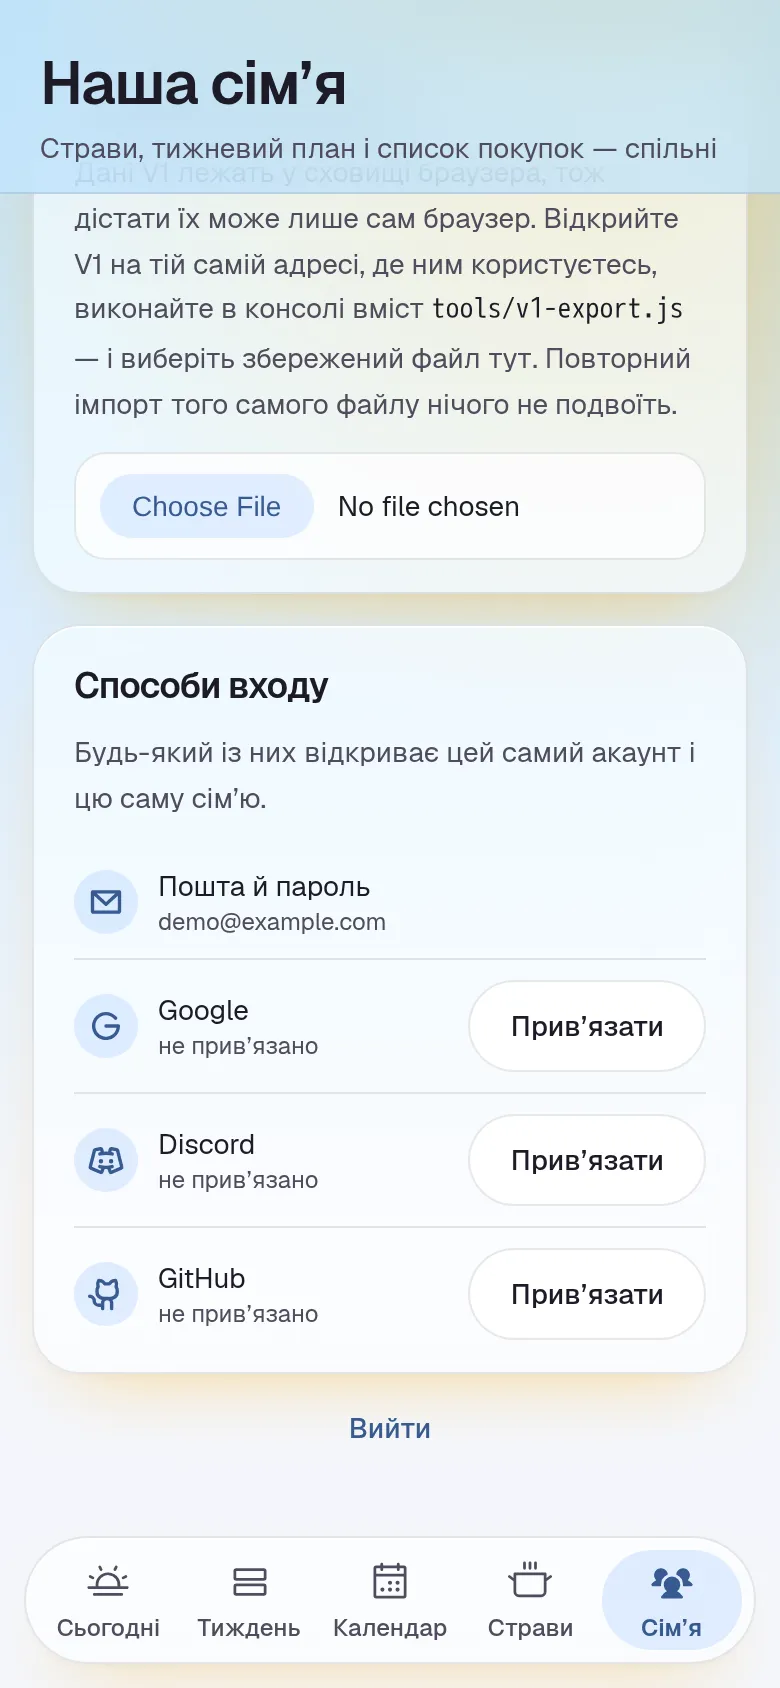
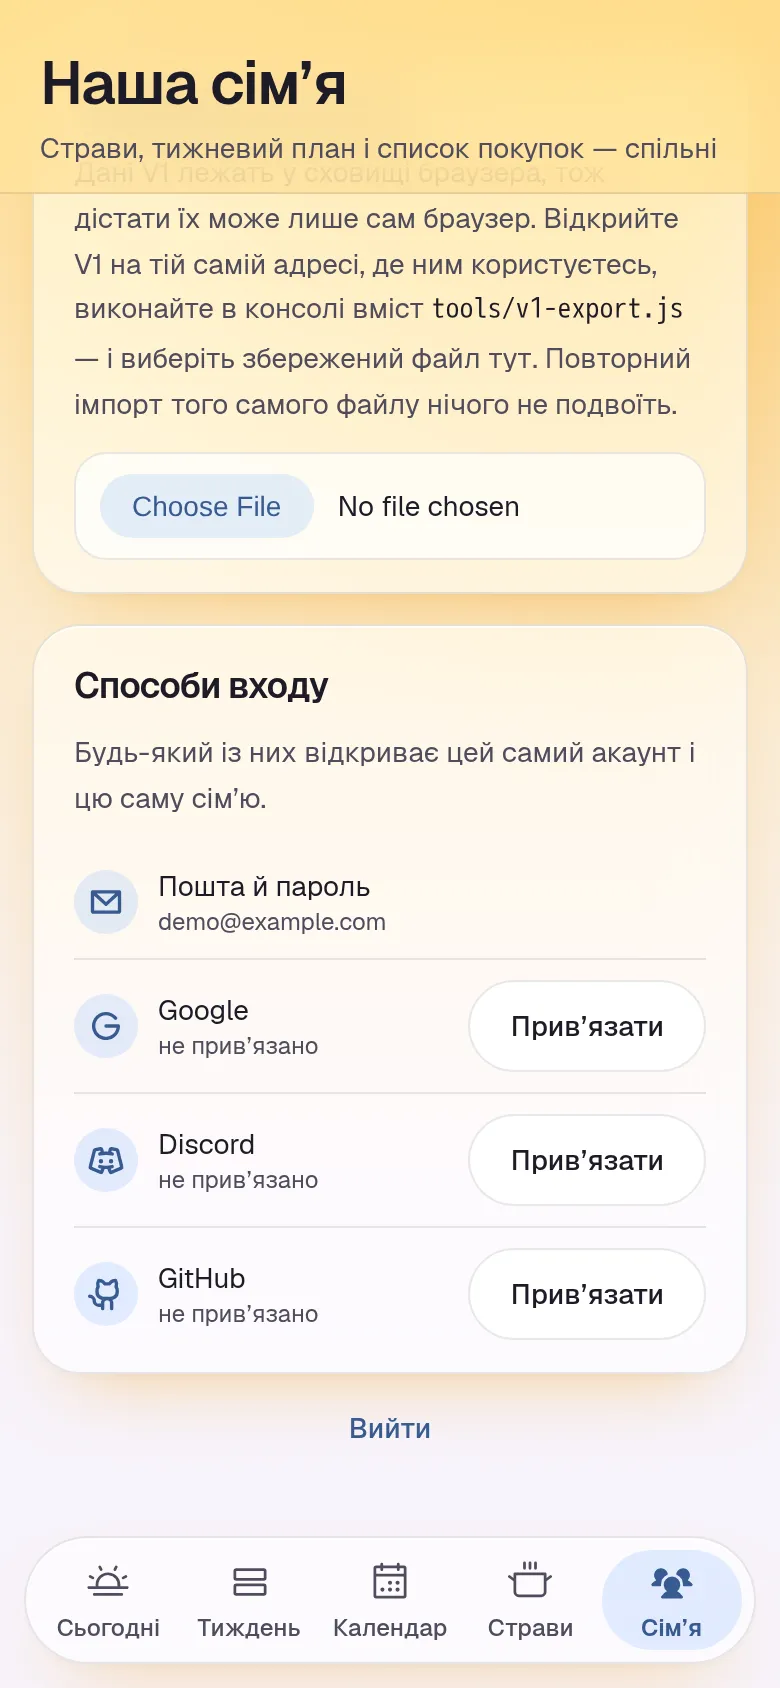
MER-176: рев'ю — відновлення з власним VOLS, накладка для WEB_IMAGE, ps -a, OAuth-ключі в .env, знімок входу в тій самій палітрі

diff --git a/README.md b/README.md
@@ -50,7 +50,7 @@
 
 ### Вимоги
 
-- Docker із плагіном Compose v2 (`docker compose`). Перевірено на Docker 27 і Compose 5.6.
+- Docker із плагіном Compose (`docker compose`, не старий `docker-compose`). Перевірено на Docker 27 і Compose 5.6.
 - Пам'ять: стек у роботі займає близько 0,5 ГБ RAM. Диск: кілька ГБ під образи (лише Postgres — 1,2 ГБ).
 - Вільні порти 80 і 443 або свої через `HTTP_PORT`/`HTTPS_PORT`.
 - HTTPS для будь-якої адреси, крім `localhost`: без захищеного контексту браузер не дасть застосунку відкрити локальну базу. Для доступу з інтернету — домен, що вказує на цей хост.
@@ -63,13 +63,13 @@ cd meridian
 docker compose up -d
 ```
 
-Перший запуск триває кілька хвилин: збирається образ застосунку. Секрети (пароль Postgres, `JWT_SECRET`, anon-ключ) стек генерує сам і тримає у власному томі, схему бази накочує сам. `docker compose ps`: `init` і `migrate` у стані `Exited (0)` — так і має бути.
+Перший запуск триває кілька хвилин: збирається образ застосунку. Секрети (пароль Postgres, `JWT_SECRET`, anon-ключ) стек генерує сам і тримає у власному томі, схему бази накочує сам. `docker compose ps -a`: `init` і `migrate` у стані `Exited (0)` — так і має бути.
 
 Далі відкрити <http://localhost>, зареєструватися, створити сім'ю й профіль, додати страви (вручну, з PDF або стартовим набором) і на екрані «Тиждень» натиснути «Згенерувати тиждень».
 
 ### Змінні оточення
 
-`.env` потрібен лише тоді, коли щось змінюєте: `cp .env.example .env`. Там кожна змінна пояснена. Після зміни — `docker compose up -d`. Секретів у `.env` немає.
+`.env` потрібен лише тоді, коли щось змінюєте: `cp .env.example .env`. Там кожна змінна пояснена. Після зміни — `docker compose up -d`. Секрети стека в `.env` не потрапляють; там будуть лише ключі OAuth, якщо ввімкнете вхід через провайдерів.
 
 | Змінна | Типово | Що робить |
 |--------|--------|-----------|
@@ -79,7 +79,7 @@ docker compose up -d
 | `GOTRUE_MAILER_AUTOCONFIRM` | `true` | Пошти в стеку немає, тож акаунт підтверджується одразу |
 | `GOTRUE_EXTERNAL_<ПРОВАЙДЕР>_*` | вимкнено | Вхід через Google, Discord, GitHub (нижче) |
 | `STARTER_SET_FILE` | порожньо | JSON стартового набору страв, поза репозиторієм |
-| `WEB_IMAGE` | порожньо | Готовий образ застосунку замість збірки |
+| `WEB_IMAGE` | порожньо | Готовий образ застосунку замість збірки, разом із накладкою `infra/compose.prebuilt.yaml` |
 
 Домашній сервер без домену (`https://<IP>:<порт>` і локальний центр сертифікації), стартовий набір і готовий образ описано в [`infra/README.md`](infra/README.md).
 
@@ -90,7 +90,7 @@ git pull
 docker compose up -d --build
 ```
 
-`--build` перезбирає образ застосунку з нових вихідників: без нього Compose лишить старий. Нові міграції бази `migrate` накотить сам. Перед оновленням зробіть бекап.
+`--build` перезбирає образ застосунку з нових вихідників: без нього Compose лишить старий. Нові міграції бази `migrate` накотить сам. З готовим образом замість `--build` спершу підтягніть новий: `docker compose -f compose.yaml -f infra/compose.prebuilt.yaml pull caddy`, далі `up -d` з тими самими `-f`. Перед оновленням зробіть бекап.
 
 ### Бекап і відновлення
 
@@ -106,12 +106,13 @@ docker compose up -d
 Відновлення — на чистому хості (клон репозиторію і той самий `.env`) або після `docker compose down -v`:
 
 ```sh
+VOLS="-v meridian_secrets:/v/secrets -v meridian_db-data:/v/db-data -v meridian_db-config:/v/db-config -v meridian_caddy-data:/v/caddy-data"
 docker compose create
 docker run --rm $VOLS -v "$PWD":/backup alpine tar xzf /backup/meridian-backup.tgz -C /v
 docker compose up -d
 ```
 
-Архів містить секрети стека, тож зберігайте його так само, як паролі. Префікс `meridian_` — ім'я проєкту з `compose.yaml`.
+Архів містить секрети стека, тож зберігайте його так само, як паролі. Префікс `meridian_` — ім'я проєкту з `compose.yaml`; якщо запускаєте з `-p` чи `COMPOSE_PROJECT_NAME`, підставте своє.
 
 ## Вхід через Google, Discord і GitHub
 

diff --git a/README.en.md b/README.en.md
@@ -50,7 +50,7 @@ For now Meridian is self-hosted: your own server comes up with one command (belo
 
 ### Requirements
 
-- Docker with the Compose v2 plugin (`docker compose`). Tested on Docker 27 and Compose 5.6.
+- Docker with the Compose plugin (`docker compose`, not the old `docker-compose`). Tested on Docker 27 and Compose 5.6.
 - Memory: the running stack takes about 0.5 GB of RAM. Disk: a few GB for images (Postgres alone is 1.2 GB).
 - Free ports 80 and 443, or your own via `HTTP_PORT`/`HTTPS_PORT`.
 - HTTPS for any address other than `localhost`: without a secure context the browser won't let the app open its local database. For internet access, a domain pointing at this host.
@@ -63,13 +63,13 @@ cd meridian
 docker compose up -d
 ```
 
-The first run takes a few minutes while the app image builds. The stack generates its own secrets (Postgres password, `JWT_SECRET`, anon key), keeps them in its own volume and applies the database schema itself. In `docker compose ps`, `init` and `migrate` show `Exited (0)` — that's expected.
+The first run takes a few minutes while the app image builds. The stack generates its own secrets (Postgres password, `JWT_SECRET`, anon key), keeps them in its own volume and applies the database schema itself. In `docker compose ps -a`, `init` and `migrate` show `Exited (0)` — that's expected.
 
 Then open <http://localhost>, sign up, create a family and a profile, add meals (by hand, from a PDF or the starter set) and press "Generate the week" on the Week screen.
 
 ### Environment variables
 
-You only need `.env` to change something: `cp .env.example .env`. Every variable is explained there. After a change, run `docker compose up -d`. `.env` holds no secrets.
+You only need `.env` to change something: `cp .env.example .env`. Every variable is explained there. After a change, run `docker compose up -d`. The stack's secrets never go into `.env`; it only holds OAuth keys if you turn on provider sign-in.
 
 | Variable | Default | What it does |
 |----------|---------|--------------|
@@ -79,7 +79,7 @@ You only need `.env` to change something: `cp .env.example .env`. Every variable
 | `GOTRUE_MAILER_AUTOCONFIRM` | `true` | The stack has no email, so accounts are confirmed immediately |
 | `GOTRUE_EXTERNAL_<PROVIDER>_*` | off | Sign-in with Google, Discord, GitHub (below) |
 | `STARTER_SET_FILE` | empty | Starter meal set JSON, kept outside the repository |
-| `WEB_IMAGE` | empty | A prebuilt app image instead of a local build |
+| `WEB_IMAGE` | empty | A prebuilt app image instead of a local build, together with the `infra/compose.prebuilt.yaml` overlay |
 
 A home server without a domain (`https://<IP>:<port>` and the local certificate authority), the starter set and the prebuilt image are covered in [`infra/README.md`](infra/README.md) (in Ukrainian).
 
@@ -90,7 +90,7 @@ git pull
 docker compose up -d --build
 ```
 
-`--build` rebuilds the app image from the new sources: without it Compose keeps the old one. `migrate` applies new database migrations on its own. Back up before updating.
+`--build` rebuilds the app image from the new sources: without it Compose keeps the old one. `migrate` applies new database migrations on its own. With a prebuilt image, pull the new one instead of `--build`: `docker compose -f compose.yaml -f infra/compose.prebuilt.yaml pull caddy`, then `up -d` with the same `-f` flags. Back up before updating.
 
 ### Backup and restore
 
@@ -106,12 +106,13 @@ docker compose up -d
 Restore on a clean host (a clone of the repository and the same `.env`) or after `docker compose down -v`:
 
 ```sh
+VOLS="-v meridian_secrets:/v/secrets -v meridian_db-data:/v/db-data -v meridian_db-config:/v/db-config -v meridian_caddy-data:/v/caddy-data"
 docker compose create
 docker run --rm $VOLS -v "$PWD":/backup alpine tar xzf /backup/meridian-backup.tgz -C /v
 docker compose up -d
 ```
 
-The archive contains the stack's secrets, so keep it as safe as your passwords. The `meridian_` prefix is the project name from `compose.yaml`.
+The archive contains the stack's secrets, so keep it as safe as your passwords. The `meridian_` prefix is the project name from `compose.yaml`; if you run with `-p` or `COMPOSE_PROJECT_NAME`, use yours.
 
 ## Sign-in with Google, Discord and GitHub
 
